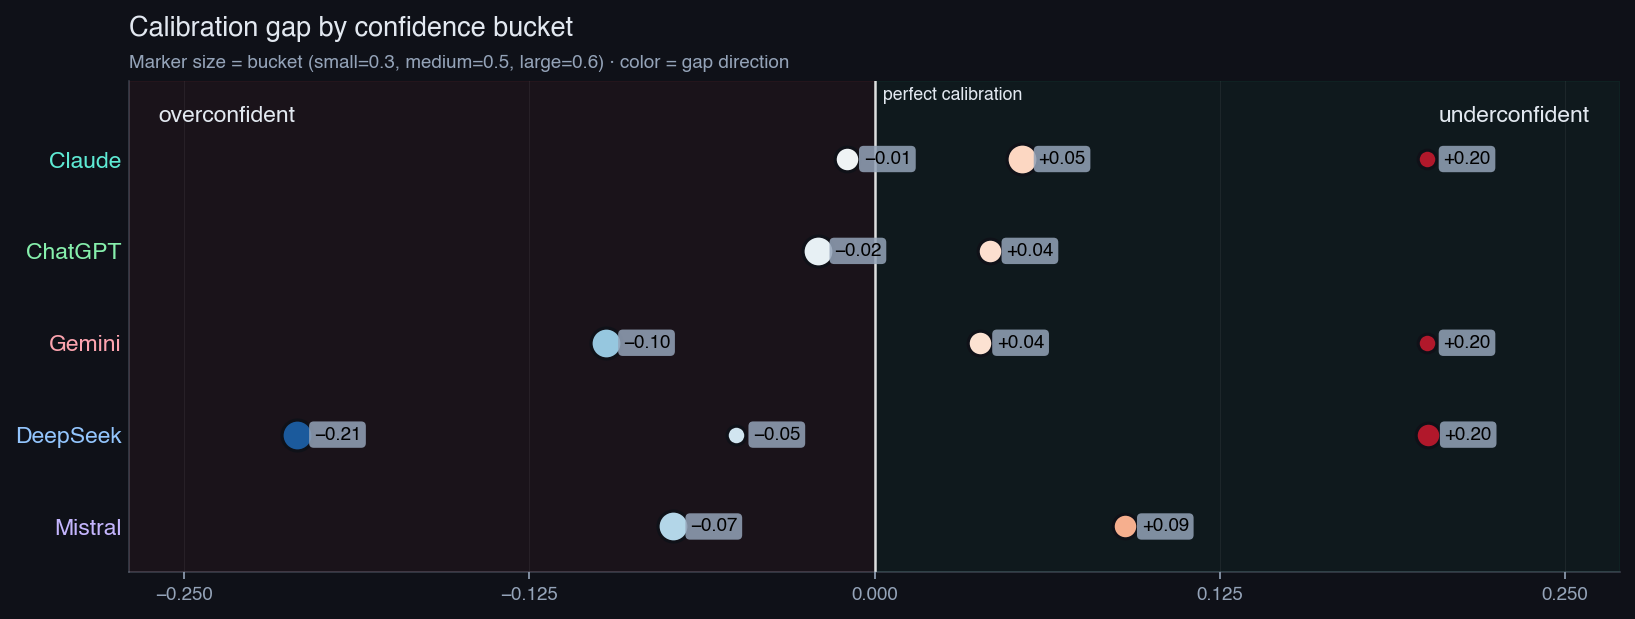
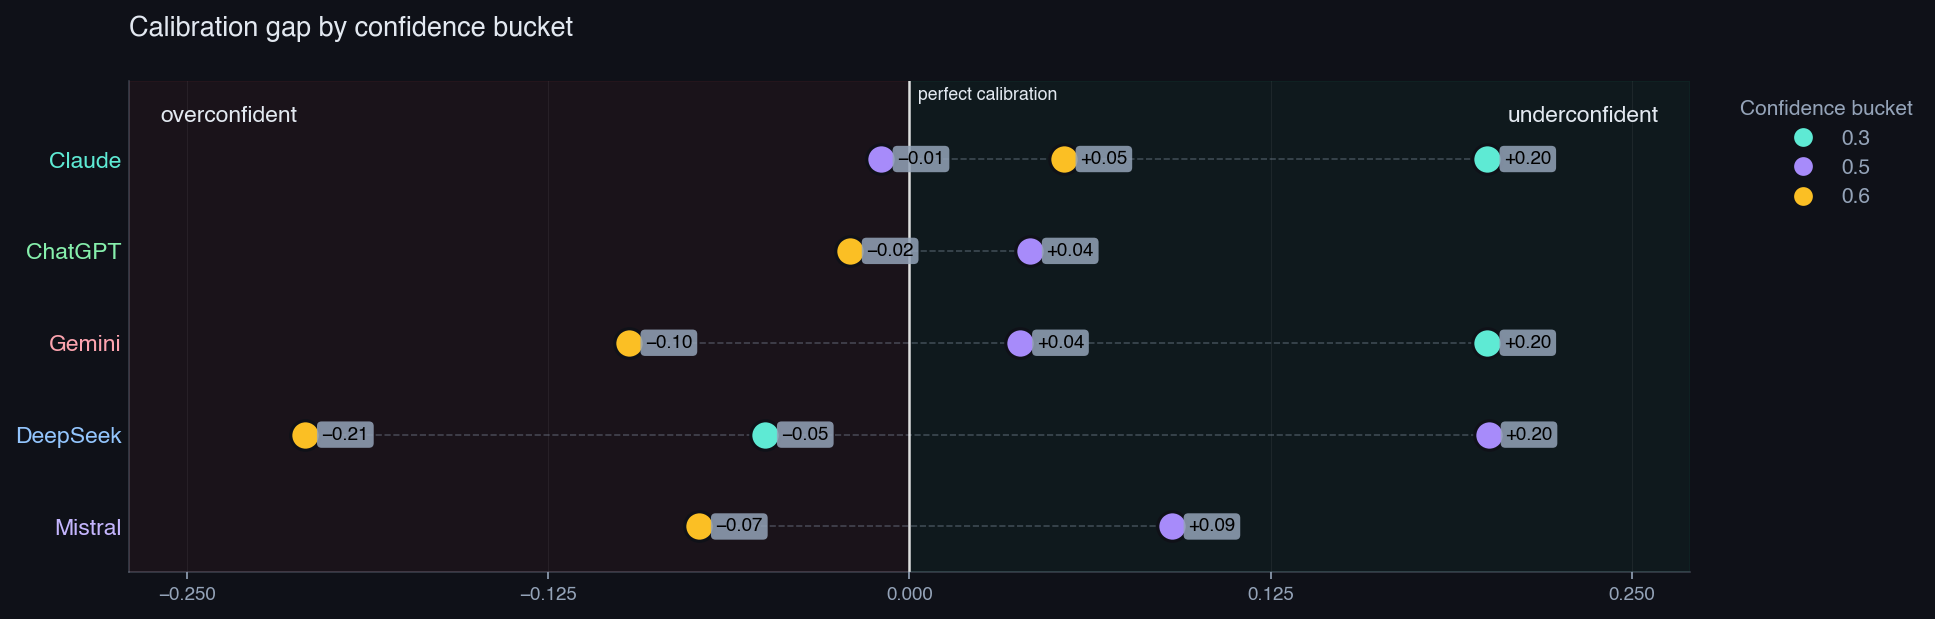
calibration: bucket-color legend + leader lines · remove RQ Integration block

diff --git a/scripts/calibration_analysis.py b/scripts/calibration_analysis.py
@@ -257,14 +257,19 @@ def make_reliability_smallmultiples(per_model: dict, paths: list[Path]) -> None:
     marker size encodes bucket, marker color encodes gap direction/magnitude
     via RdBu_r. Filename preserved so manifest paths stay valid.
     """
-    import matplotlib.colors as mcolors
     from site_palette import COLOR_GOOD, COLOR_BAD
 
+    BUCKET_COLOR = {
+        "low":      "#5eead4",  # ACCENT_TEAL
+        "unstated": "#a78bfa",  # ACCENT_PURPLE
+        "medium":   "#fbbf24",  # ACCENT_GOLD
+    }
     buckets = [
-        ("low",      0.3, 80),
-        ("unstated", 0.5, 140),
-        ("medium",   0.6, 220),
+        ("low",      0.3),
+        ("unstated", 0.5),
+        ("medium",   0.6),
     ]
+    BUCKET_LABEL = {"low": "0.3", "unstated": "0.5", "medium": "0.6"}
     models = ["claude", "chatgpt", "gemini", "deepseek", "mistral"]
     DISPLAY = {
         "claude":   "Claude",
@@ -274,10 +279,7 @@ def make_reliability_smallmultiples(per_model: dict, paths: list[Path]) -> None:
         "mistral":  "Mistral",
     }
 
-    norm = mcolors.TwoSlopeNorm(vcenter=0.0, vmin=-0.25, vmax=0.25)
-    cmap = plt.get_cmap("RdBu_r")
-
-    fig, ax = plt.subplots(figsize=(11, 4.5), dpi=150, facecolor=SITE_BG)
+    fig, ax = plt.subplots(figsize=(13, 4.5), dpi=150, facecolor=SITE_BG)
     ax.set_facecolor(SITE_BG)
 
     # Background tinting: x<0 faint red, x>0 faint blue.
@@ -294,13 +296,27 @@ def make_reliability_smallmultiples(per_model: dict, paths: list[Path]) -> None:
         info = per_model.get(m)
         if not info:
             continue
-        for bucket_key, claimed, size in buckets:
+        row_gaps = []
+        for bucket_key, claimed in buckets:
             d = info["per_bucket"].get(bucket_key, {})
             if d.get("n", 0) == 0 or d.get("mean_accuracy") is None:
                 continue
             gap = d["mean_accuracy"] - claimed
-            ax.scatter([gap], [i], s=size, c=[cmap(norm(gap))],
-                       edgecolors=SITE_BG, linewidths=1.5, zorder=4)
+            row_gaps.append(gap)
+        if row_gaps:
+            x_left = min(min(row_gaps), 0.0)
+            x_right = max(max(row_gaps), 0.0)
+            ax.plot([x_left, x_right], [i, i],
+                    linewidth=0.8, alpha=0.35, color=SITE_FG_MUTED,
+                    linestyle="--", zorder=1)
+
+        for bucket_key, claimed in buckets:
+            d = info["per_bucket"].get(bucket_key, {})
+            if d.get("n", 0) == 0 or d.get("mean_accuracy") is None:
+                continue
+            gap = d["mean_accuracy"] - claimed
+            ax.scatter([gap], [i], s=200, c=[BUCKET_COLOR[bucket_key]],
+                       edgecolor=SITE_BG, linewidths=1.5, zorder=3)
             sign = "+" if gap >= 0 else "−"
             ax.annotate(f"{sign}{abs(gap):.2f}",
                         xy=(gap, i),
@@ -336,11 +352,19 @@ def make_reliability_smallmultiples(per_model: dict, paths: list[Path]) -> None:
 
     ax.set_title("Calibration gap by confidence bucket",
                  fontsize=13, fontweight="700", color=SITE_FG, pad=22, loc="left")
-    ax.text(0.0, 1.02,
-            "Marker size = bucket (small=0.3, medium=0.5, large=0.6) · "
-            "color = gap direction",
-            transform=ax.transAxes, ha="left", va="bottom",
-            fontsize=9, style="italic", color=SITE_FG_MUTED)
+
+    from matplotlib.lines import Line2D
+    legend_handles = [
+        Line2D([0], [0], marker="o", linestyle="",
+               markerfacecolor=BUCKET_COLOR[k], markeredgecolor=SITE_BG,
+               markersize=10, label=BUCKET_LABEL[k])
+        for k, _ in buckets
+    ]
+    leg = ax.legend(handles=legend_handles, title="Confidence bucket",
+                    bbox_to_anchor=(1.02, 1.0), loc="upper left",
+                    frameon=False, fontsize=10, labelcolor=SITE_FG_MUTED,
+                    title_fontsize=10)
+    leg.get_title().set_color(SITE_FG_MUTED)
 
     fig.tight_layout(rect=(0, 0.02, 1, 0.96))
     for path in paths:
